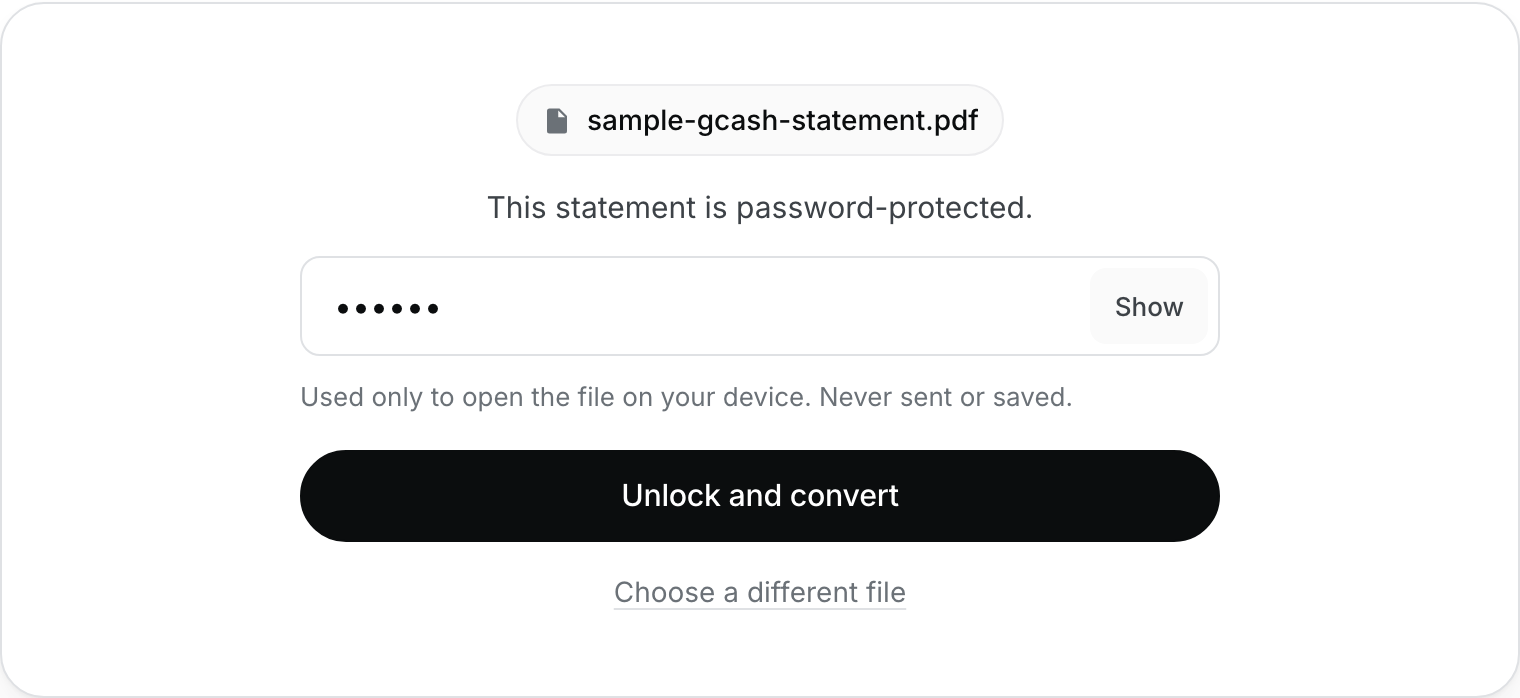
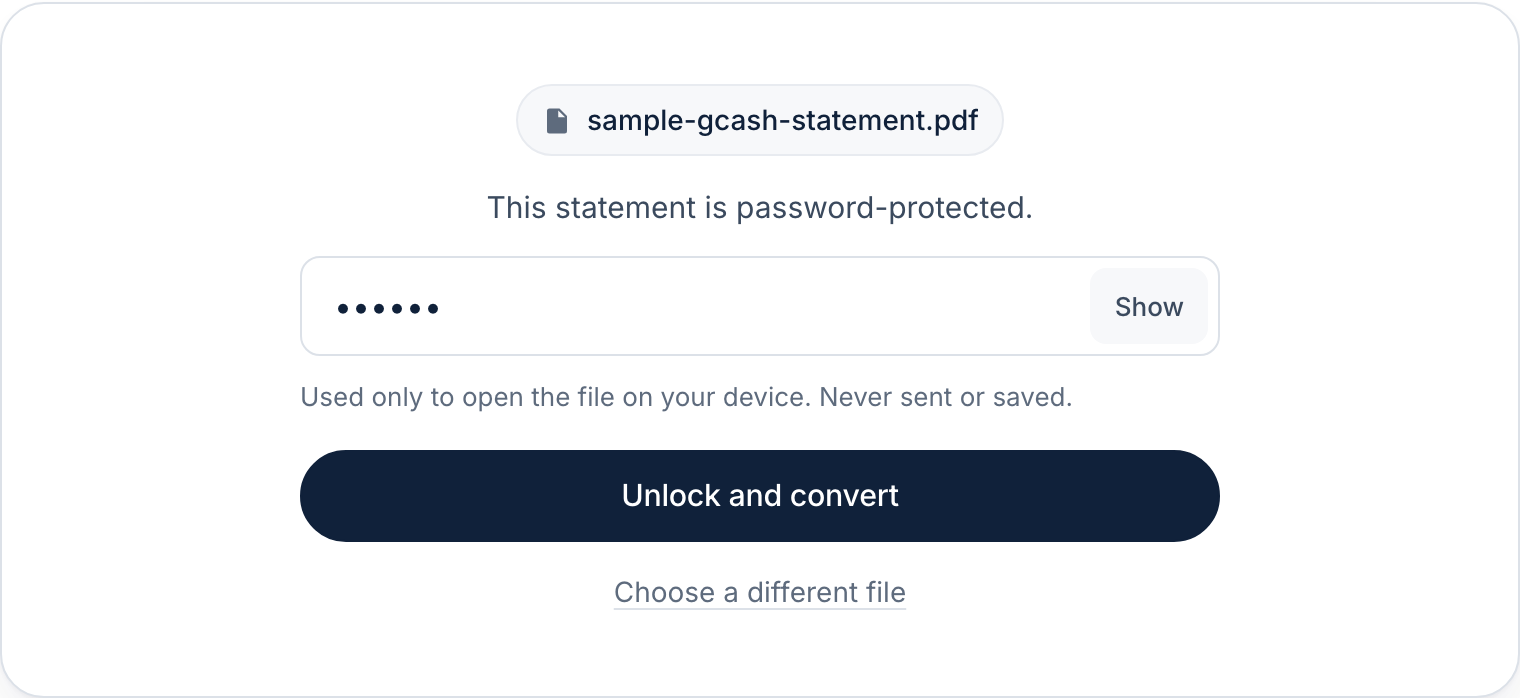
New palette: navy #10213A + gold #C9A15B
- Logo, favicon and share image in navy and gold
- Navy ink for text, buttons and the dark band; gold for accents (Request a bank
  button, drag state, done check, lock icon, selection); #8A6A2F for gold text
  so contrast stays AA
- Green kept only for money in / Match; warnings moved to terracotta so they
  can't be confused with the gold accent
- Navy-tinted grays and shadows; blog screenshots regenerated
- CLAUDE.md documents the palette rules

Changed region(s): [[0.1855, 0.6318, 0.8039, 0.7822], [0.3711, 0.1504, 0.6493, 0.2106], [0.2164, 0.4212, 0.2783, 0.4513]]

diff --git a/src/styles/global.css b/src/styles/global.css
@@ -12,28 +12,38 @@
 
 :root {
   color-scheme: light;
+  /* Brand: navy ink + gold accent. Gold (#c9a15b) is 2.4:1 on white, so it is used for fills and
+     accents only; gold TEXT uses --gold-text (5:1). Green stays the "money in / match" signal and
+     warnings are terracotta, so neither can be mistaken for the gold brand accent. */
   --bg: #ffffff;
-  --subtle: #fafafa;
-  --ink: #0b0d0e;
-  --text: #0b0d0e;
-  --body: #3d4247;
-  --muted: #6b7177;
-  --faint: #868c92; /* large/decorative text only (≥3:1); small text uses --muted */
-  --line: #ececee;
-  --line-strong: #dfe1e4;
+  --subtle: #f7f8fa;
+  --ink: #10213a;
+  --ink-hover: #1b3358;
+  --text: #10213a;
+  --body: #3b4a5e;
+  --muted: #5e6b7d;
+  --faint: #8a94a3; /* large/decorative text only (≥3:1); small text uses --muted */
+  --line: #e8ebf0;
+  --line-strong: #dce1e8;
+  --gold: #c9a15b;
+  --gold-hover: #d4b073;
+  --gold-text: #8a6a2f;
+  --gold-tint: #faf5ea;
+  --gold-line: #ebddbe;
   --green: #15803d;
   --green-bright: #16a34a;
   --green-tint: #effaf3;
-  --focus: #2563eb;
-  --warn-bg: #fffaeb;
-  --warn-line: #f6e2a8;
-  --warn-text: #7a4b05;
+  --focus: #b07f2a;
+  --warn-bg: #fff4ed;
+  --warn-line: #fbd5bd;
+  --warn-text: #9a3412;
+  --warn-hover: #ffead9;
   --radius-sm: 10px;
   --radius: 14px;
   --radius-lg: 22px;
   --shadow:
-    0 1px 2px rgb(16 18 20 / 4%), 0 8px 24px -10px rgb(16 18 20 / 10%),
-    0 30px 60px -30px rgb(16 18 20 / 14%);
+    0 1px 2px rgb(16 33 58 / 4%), 0 8px 24px -10px rgb(16 33 58 / 10%),
+    0 30px 60px -30px rgb(16 33 58 / 16%);
   --font: "Inter", -apple-system, BlinkMacSystemFont, "Segoe UI", Roboto, sans-serif;
   font-family: var(--font);
   font-feature-settings: "cv11", "ss01";
@@ -45,6 +55,11 @@
 *::before,
 *::after {
   box-sizing: border-box;
+}
+
+::selection {
+  background: var(--gold-tint);
+  color: var(--ink);
 }
 
 body {
@@ -276,7 +291,7 @@ button {
 .btn-primary:hover,
 .btn-big:hover,
 .cta-link:hover {
-  background: #26292c;
+  background: var(--ink-hover);
   color: #fff;
 }
 .btn-primary:active,
@@ -391,8 +406,8 @@ button {
   }
 }
 .panel.dragging {
-  border-color: var(--green-bright);
-  background: var(--green-tint);
+  border-color: var(--gold);
+  background: var(--gold-tint);
 }
 .panel-state {
   width: 100%;
@@ -412,7 +427,7 @@ button {
   color: var(--muted);
 }
 .panel-privacy svg {
-  color: var(--green);
+  color: var(--gold-text);
   vertical-align: -3px;
   margin-right: 4px;
 }
@@ -478,7 +493,7 @@ button {
 .password-field input:focus {
   outline: none;
   border-color: var(--ink);
-  box-shadow: 0 0 0 4px rgb(11 13 14 / 8%);
+  box-shadow: 0 0 0 4px rgb(201 161 91 / 25%);
 }
 .password-toggle {
   position: absolute;
@@ -537,8 +552,9 @@ button {
   height: 44px;
   margin: 0 auto 14px;
   border-radius: 50%;
-  background: var(--green-tint);
-  color: var(--green);
+  background: var(--gold-tint);
+  color: var(--gold-text);
+  box-shadow: inset 0 0 0 1px var(--gold-line);
   font-size: 1.2rem;
 }
 #state-done {
@@ -909,7 +925,7 @@ tbody tr:last-child > * {
   background: var(--bg);
   color: var(--text);
   box-shadow:
-    0 1px 2px rgb(16 18 20 / 8%),
+    0 1px 2px rgb(16 33 58 / 8%),
     0 0 0 1px var(--line-strong);
 }
 .seg-count {
@@ -947,7 +963,7 @@ tbody tr:last-child > * {
 .tx-controls input[type="search"]:focus {
   outline: none;
   border-color: var(--ink);
-  box-shadow: 0 0 0 4px rgb(11 13 14 / 8%);
+  box-shadow: 0 0 0 4px rgb(201 161 91 / 25%);
 }
 
 /* transactions table */
@@ -975,7 +991,7 @@ tbody tr:last-child > * {
   background: var(--warn-bg);
 }
 .tx-table tr.flagged:hover > td {
-  background: #fff4d6;
+  background: var(--warn-hover);
 }
 .tx-empty {
   margin: 0;
@@ -1225,7 +1241,7 @@ tbody tr:last-child > * {
   display: block;
   font-size: 0.8125rem;
   font-weight: 500;
-  color: var(--green);
+  color: var(--gold-text);
   margin-bottom: 10px;
 }
 .section-head {
@@ -1275,7 +1291,7 @@ tbody tr:last-child > * {
 }
 .cta-band {
   background: var(--ink);
-  color: #c9cdd1;
+  color: #c3cbd8;
   border-radius: var(--radius-lg);
   padding: 48px 40px;
   display: flex;
@@ -1308,12 +1324,13 @@ tbody tr:last-child > * {
   max-width: 52ch;
 }
 .cta-band .btn-light {
-  background: #fff;
+  background: var(--gold);
   color: var(--ink);
-  border: 1px solid #fff;
+  border: 1px solid var(--gold);
 }
 .cta-band .btn-light:hover {
-  background: #e9ebed;
+  background: var(--gold-hover);
+  border-color: var(--gold-hover);
   color: var(--ink);
 }
 @media (max-width: 559px) {
@@ -1389,7 +1406,7 @@ main.page-top {
 }
 .prose .eyebrow {
   margin: 0;
-  color: var(--green);
+  color: var(--gold-text);
   font-size: 0.8125rem;
   line-height: 1.6;
 }
@@ -1503,7 +1520,7 @@ main.page-top {
   color: var(--muted);
 }
 .post-meta a {
-  color: var(--green);
+  color: var(--gold-text);
   text-decoration: none;
   font-weight: 500;
 }

diff --git a/CLAUDE.md b/CLAUDE.md
@@ -222,17 +222,12 @@ Never store the password (no localStorage, no URL params).
 - Languages: English first; keep UI strings in one object so Filipino/Taglish can be added later.
 - Accessible: labels on inputs, keyboard usable, good contrast.
 - Light theme only (no dark mode). Design direction: minimal, premium fintech. Inter (self-hosted),
-  near-black ink and black pill buttons, one accent (spreadsheet green), hairline dividers, generous
-  whitespace, and a subtle "wallet → spreadsheet" motif. No GCash brand colours.
-
-## SEO requirements
-
-SEO is the main growth channel, so build it in from the start. Users search in plain English and
-Taglish, e.g. "gcash transaction history to excel", "how to download gcash transaction history",
-"gcash statement password", "gcash pdf to google sheets".
-
-### Every page must have
-
+  generous whitespace, hairline dividers, a subtle "wallet → spreadsheet" motif.
+- Palette (tokens in `src/styles/global.css`): navy ink `#10213A` (text, buttons, dark band, logo
+  tile) and gold `#C9A15B` (logo, accents, fills). Gold is 2.4:1 on white, so never use it for
+  text; gold text uses `#8A6A2F`. Green `#15803D` is reserved for "money in" and "✓ Match";
+  warnings are terracotta `#9A3412`, so neither can be confused with the gold accent.
+  No GCash brand colours.
 - A unique `<title>` (≤ 60 chars) and meta description (≤ 155 chars) written for humans.
 - Exactly one `<h1>`; logical `h2`/`h3` structure.
 - `<link rel="canonical">` with the absolute URL (set `site` in `astro.config.mjs`).
